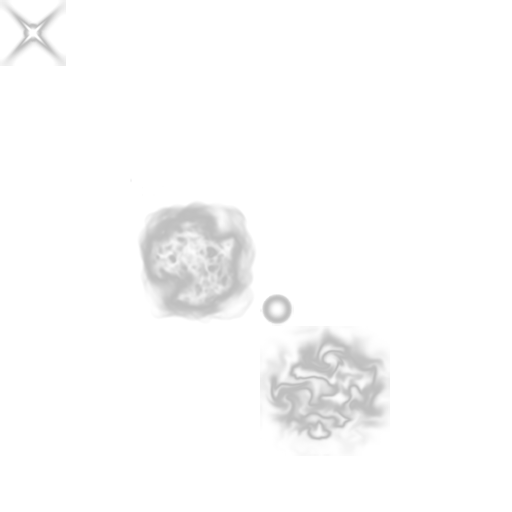
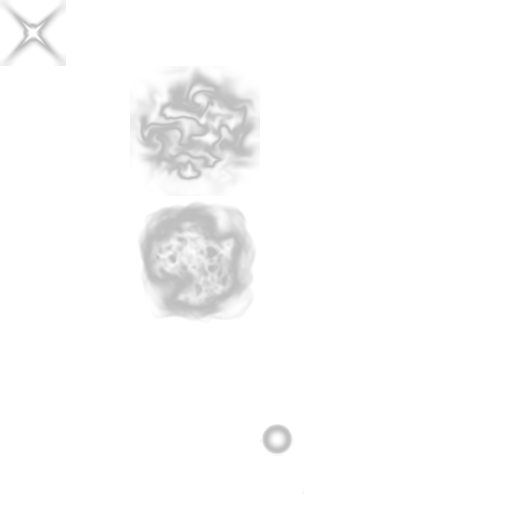
Added Glitch template.

Changed region(s): [[0.5, 0.625, 0.75, 0.9062], [0.25, 0.125, 0.5, 0.375], [0.5, 0.5625, 0.5938, 0.6562]]

diff --git a/core/src/main/java/com/ray3k/particleparkpro/widgets/poptables/PopTemplate.java b/core/src/main/java/com/ray3k/particleparkpro/widgets/poptables/PopTemplate.java
@@ -136,7 +136,16 @@ public class PopTemplate extends PopTable {
         scrollTable.add(textButton);
         addHandListener(textButton);
         onChange(textButton, () -> openTemplate("infinity.p"));
-        popTable = addTooltip(textButton, "An infinite four way pattern.", Align.top, Align.top, tooltipBottomArrowStyle);
+        popTable = addTooltip(textButton, "An infinite four way pattern", Align.top, Align.top, tooltipBottomArrowStyle);
+        popTable.setKeepSizedWithinStage(false);
+
+        //Glitch
+        scrollTable.row();
+        textButton = new TextButton("Glitch", skin);
+        scrollTable.add(textButton);
+        addHandListener(textButton);
+        onChange(textButton, () -> openTemplate("Glitch.p"));
+        popTable = addTooltip(textButton, "Use additive to create a glitchy logo effect", Align.top, Align.top, tooltipBottomArrowStyle);
         popTable.setKeepSizedWithinStage(false);
     }
 

diff --git a/core/src/main/java/com/ray3k/particleparkpro/Utils.java b/core/src/main/java/com/ray3k/particleparkpro/Utils.java
@@ -441,6 +441,9 @@ public class Utils {
 
         defaultImageHandle = Gdx.files.internal("particle-fire.png");
         fileHandles.put(defaultImageHandle.name(), defaultImageHandle);
+
+        defaultImageHandle = Gdx.files.internal("logo.png");
+        fileHandles.put(defaultImageHandle.name(), defaultImageHandle);
     }
 
     public static void showToast(String text) {
